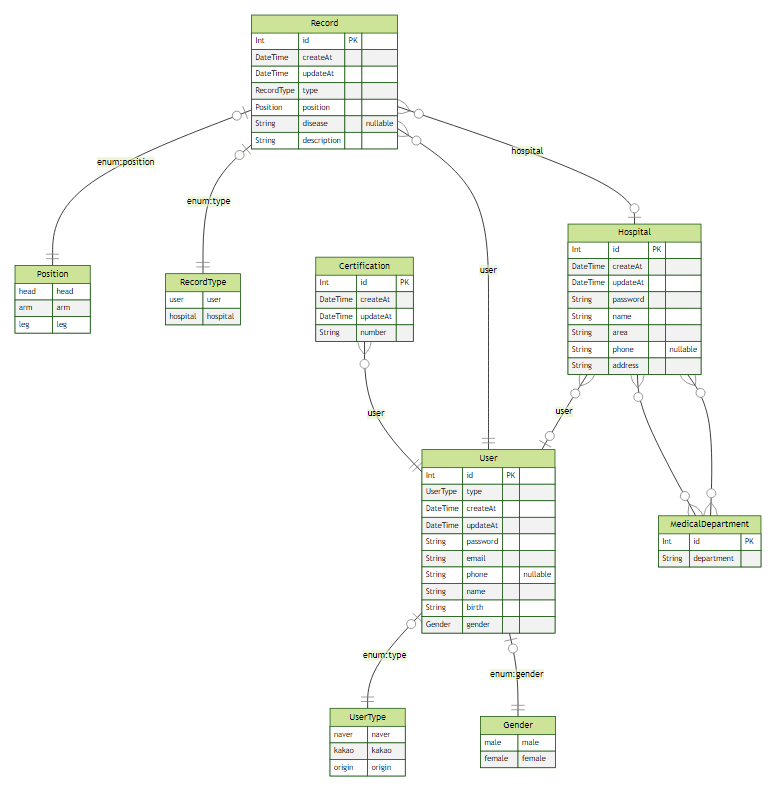
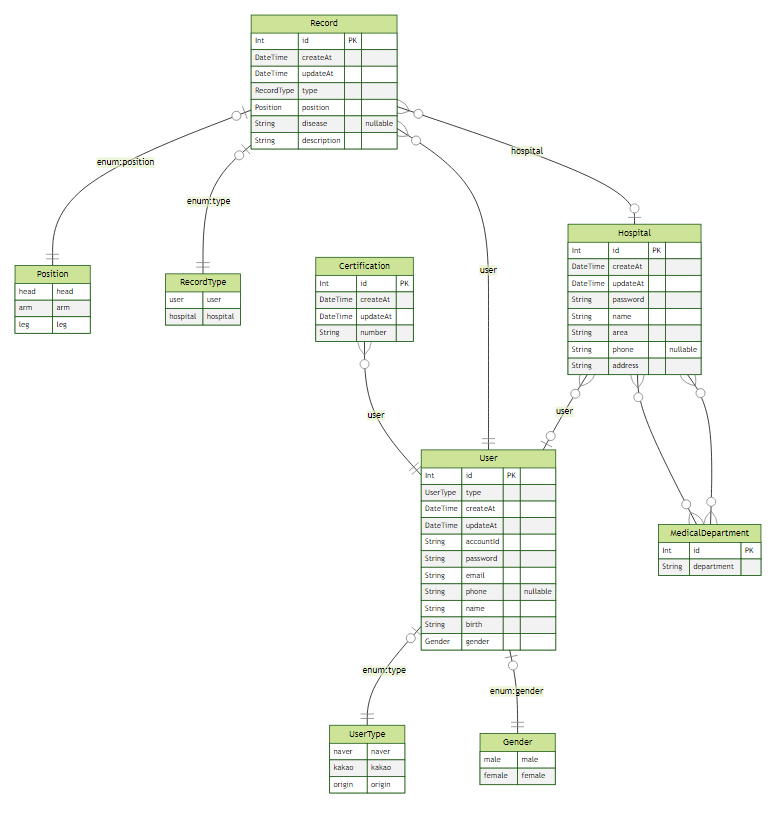
feat(socialLogin) : api 교체

diff --git a/pages/auth/register.tsx b/pages/auth/register.tsx
@@ -13,7 +13,8 @@ interface RegisterForm {
   passwordConfirm: string;
   gender: string;
   name: string;
-  age: number;
+  birth: string;
+  phone?: string;
 }
 
 function RegisterPage() {
@@ -25,6 +26,7 @@ function RegisterPage() {
     setError,
     watch,
     clearErrors,
+    setValue,
     formState: { errors },
   } = useForm<RegisterForm>();
   const { postApi } = useApi("/api/auth/register");
@@ -38,14 +40,14 @@ function RegisterPage() {
   });
 
   async function onValid(data: RegisterForm) {
-    const { email, password, passwordConfirm, gender, name, age } = data;
+    const { password, passwordConfirm } = data;
 
     if (password !== passwordConfirm) {
       setError("passwordConfirm", { message: "비밀번호가 일치하지 않습니다" });
       return;
     }
 
-    mutate({ email, password, gender, name, age });
+    mutate(data);
   }
 
   async function checkDuplicateEmail(event: MouseEvent<HTMLButtonElement, globalThis.MouseEvent>) {
@@ -63,11 +65,20 @@ function RegisterPage() {
   }
   useEffect(() => {
     setError("email", { type: "custom", message: isNotDuplicate ? "적합한 이메일" : "중복이메일" });
-  }, [isNotDuplicate]);
+  }, [isNotDuplicate, setError]);
 
   useEffect(() => {
     clearErrors();
-  }, []);
+    if (router.query) {
+      const { email, phone, name, birth, gender } = router.query;
+      console.log(router.query);
+      setValue("email", (email as string) || "");
+      setValue("phone", (phone as string) || "");
+      setValue("name", (name as string) || "");
+      setValue("birth", (birth as string) || "");
+      // setValue("gender", (gender as string) || "");
+    }
+  }, [clearErrors, router, setValue]);
 
   return (
     <>
@@ -103,15 +114,28 @@ function RegisterPage() {
           />
           <Input
             type="number"
-            label="나이"
+            label="생년월일"
             name="age"
-            register={register("age", { required: "나이를 입력해주세요" })}
-            errorMessage={errors.age?.message}
+            register={register("birth", { required: "나이를 입력해주세요" })}
+            errorMessage={errors.birth?.message}
           />
-          <select {...register("gender", { required: "성별을 입력해주세요" })}>
-            <option value="male">남자</option>
-            <option value="female">여자</option>
-          </select>
+          <Input
+            type="radio"
+            label="남자"
+            name="gender"
+            value="male"
+            register={register("gender")}
+            errorMessage={errors.birth?.message}
+          />
+          <Input
+            type="radio"
+            label="여자"
+            name="gender"
+            value="female"
+            register={register("gender")}
+            errorMessage={errors.birth?.message}
+          />
+
           <button disabled={isNotDuplicate ? false : true}>제출</button>
         </form>
       </div>

diff --git a/pages/api/auth/login.ts b/pages/api/auth/login.ts
@@ -6,42 +6,6 @@ import { LoginForm } from "pages/auth/login";
 import bcrypt from "bcrypt";
 async function handler(req: NextApiRequest, res: NextApiResponse) {
   const { type } = req.body;
-  if (type === "naver") {
-    const { email, phone, name, birth, gender } = req.body;
-    const foundUser = await client.user.findFirst({
-      where: {
-        email: email + "/naver",
-        type: "naver",
-      },
-    });
-    // 존재하는 유저
-    if (foundUser) {
-      req.session.user = {
-        id: foundUser.id,
-      };
-      await req.session.save();
-      return res.status(201).end();
-    }
-    // 새로운 유저
-    else {
-      const newUser = await client.user.create({
-        data: {
-          type: "naver",
-          email: email + "/naver",
-          phone,
-          name,
-          birth,
-          gender,
-          password: Math.floor(10000 + Math.random() * 1000000) + "",
-        },
-      });
-      req.session.user = {
-        id: newUser.id,
-      };
-      await req.session.save();
-      return res.status(201).end();
-    }
-  }
   if (type === "origin") {
     const { email, password, autoLogin }: LoginForm = req.body;
     const foundUser = await client.user.findFirst({
@@ -64,11 +28,31 @@ async function handler(req: NextApiRequest, res: NextApiResponse) {
       return res.status(401).send("회원정보를 확인해주세요");
     }
   }
-  if (type === "kakao") {
-    const { email, phone, name, birth, gender } = req.body;
+  if (type === "naver") {
+    const { id, email, phone, name, birth, gender } = req.body;
     const foundUser = await client.user.findFirst({
       where: {
-        email: email + "/kakao",
+        accountId: id,
+        type: "naver",
+      },
+    });
+    // 존재하는 유저
+    if (foundUser) {
+      req.session.user = {
+        id: foundUser.id,
+      };
+      await req.session.save();
+      return res.status(201).end();
+    }
+    // 새로운 유저
+    else return res.status(400).json({ id, email, phone, name, birth, gender });
+  }
+
+  if (type === "kakao") {
+    const { id, email, phone, name, birth, gender } = req.body;
+    const foundUser = await client.user.findFirst({
+      where: {
+        accountId: id,
         type: "kakao",
       },
     });
@@ -81,24 +65,7 @@ async function handler(req: NextApiRequest, res: NextApiResponse) {
       return res.status(201).end();
     }
     // 새로운 유저
-    else {
-      const newUser = await client.user.create({
-        data: {
-          type: "kakao",
-          email: email + "/kakao",
-          phone,
-          name,
-          birth,
-          gender,
-          password: Math.floor(10000 + Math.random() * 1000000) + "",
-        },
-      });
-      req.session.user = {
-        id: newUser.id,
-      };
-      await req.session.save();
-      return res.status(201).end();
-    }
+    else return res.status(400).json({ id, email, phone, name, birth, gender });
   }
 }
 

diff --git a/components/Input.tsx b/components/Input.tsx
@@ -9,6 +9,8 @@ interface InputProps {
   placeholder?: string;
   errorMessage?: string;
   disabled?: boolean;
+  value?: string;
+  checked?: boolean;
 }
 
 export default function Input({
@@ -18,13 +20,15 @@ export default function Input({
   type = "text",
   errorMessage,
   placeholder,
+  value,
   disabled = false,
+  checked,
 }: InputProps) {
   return (
     <InputContainer>
       <Label htmlFor={name}>{label}</Label>
       <InputBox>
-        <MainInput disabled={disabled} id={name} {...register} type={type} placeholder={placeholder} />
+        <MainInput disabled={disabled} id={name} {...register} type={type} placeholder={placeholder} value={value} />
         <ErrorMessage>{errorMessage}</ErrorMessage>
       </InputBox>
     </InputContainer>

diff --git a/pages/auth/login.tsx b/pages/auth/login.tsx
@@ -23,12 +23,23 @@ const LoginPage: NextPage = () => {
   const [showModal, setShowModal] = useState(false);
   const { mutate } = useMutation(["login"], postApi, {
     onError(error: any) {
-      alert(`${error.data}`);
+      console.log(error);
+      // alert(`${error.data}`);
+      if (error.data) {
+        router.push(
+          {
+            pathname: "/auth/register",
+            query: error.data,
+          },
+          "/auth/register",
+        );
+      }
     },
     onSuccess() {
       router.push("/");
     },
   });
+  const { mutate: socialLogin } = useMutation(["socialLogin"], postApi, {});
   const {
     register,
     handleSubmit,

diff --git a/components/NaverLoginBtn.tsx b/components/NaverLoginBtn.tsx
@@ -33,9 +33,10 @@ const NaverLoginBtn = ({ mutate }: { mutate: UseMutateFunction<any, any, any, un
           if (status) {
             // 사용자 정보 조회
             console.log(naverLogin.user);
-            const { email, mobile, name, birthyear, gender } = naverLogin.user;
+            const { email, mobile, name, birthyear, gender, id } = naverLogin.user;
             // 네이버 로그인 요청
             mutate({
+              id,
               type: "naver",
               email,
               phone: mobile,

diff --git a/pages/api/auth/register.ts b/pages/api/auth/register.ts
@@ -5,12 +5,13 @@ import { withApiSession } from "@libs/server/withSession";
 import * as bcrypt from "bcrypt";
 
 async function handler(req: NextApiRequest, res: NextApiResponse) {
-  const { password, email, name, age, gender } = req.body;
+  const { password, email, name, birth, gender, accountId } = req.body;
 
   await client.user.create({
     data: {
+      accountId,
       name,
-      age: Number(age),
+      birth,
       gender,
       email,
       password: await bcrypt.hash(password, 12),

diff --git a/components/KakaoLoginBtn.tsx b/components/KakaoLoginBtn.tsx
@@ -20,8 +20,9 @@ const KakaoLoginBtn = ({ mutate }: { mutate: UseMutateFunction<any, any, any, un
 
             // 카카오 로그인 요청
             mutate({
+              id: res.id,
               type: "kakao",
-              email: res.id + "",
+              email: res.email,
               name: res.kakao_account.profile.nickname,
               birth: "2000",
               gender: res.kakao_account.gender,

diff --git a/docs/오피스아워/백엔드/02_2022_11_18.md b/docs/오피스아워/백엔드/02_2022_11_18.md
@@ -2,7 +2,7 @@
 <summary>2022/11/18(금) 1주차 백엔드 오피스 아워02</summary>
 <div>
 
-## 1. NextJS 버전
+## 1. https
 
 12v과 13v중 무엇을 쓸지에 대한 고민
 
@@ -16,7 +16,7 @@
       2.  현재 Product레벨에서 쓰이고있는 버전은 안정된 12버전이고 실무에서는 12버전의 NEXT를 사용할 확률이 높다.
       3.  12버전을 알고 13버전으로 넘어가야 13버전의 장점을 온전히 체감할 수 있고 13버전에서 12버전으로 다운그레이드 하는 경우에도 작업을 할 수 있다.
 
-## 2. Express 사용 여부
+## 2. 소셜 로그인 쿠키 남겨놔도 상관
 
 ### 문제점
 
@@ -38,26 +38,17 @@
 
 // 결정의 근거를 논리정연하게 정리
 
-## 3. Nextauth
+## 3. 소셜 로그인 정보에 대해서
 
-    백엔드를 거치지 않고 DB로 접근해서 자기가 알아서 만든다.
-    adapters 에서 prisma로 사용하면 될듯.
-    nextAuth가 planetscale을 인식하는지 테스트. // 인식 못할수도 있음.
+    소셜로그인 회원가입 시 이메일 입력하라는 가이드를 줘야함.
+    소셜로그인 방식
+        첫 로그인 시도 시 이메일 및 필수 정보(회원가입)를 받는다.
 
-## 4. 현재 위치
 
-    geolacation API를 이용하면 로컬에서는 가능한데 VM로 배포했을때 http에서는 안됨.(https에서는 됨)
-    파훼법
-
-    1.  https를 쓰던지 -다현
-    2.  https가 아니더라도 내 위치 좌표를 받아오는 방법, 다른 API가 있으니 찾아보자!
-        동룡,경원
-
-## 3. 레이지 로딩
-
-    Intersection Observer
-
-## 4. 라이브러리 의존도 낮추자
+    필수값
+    - 이메일
+    - 성별
+    - 생년월일
 
 </div>
 
